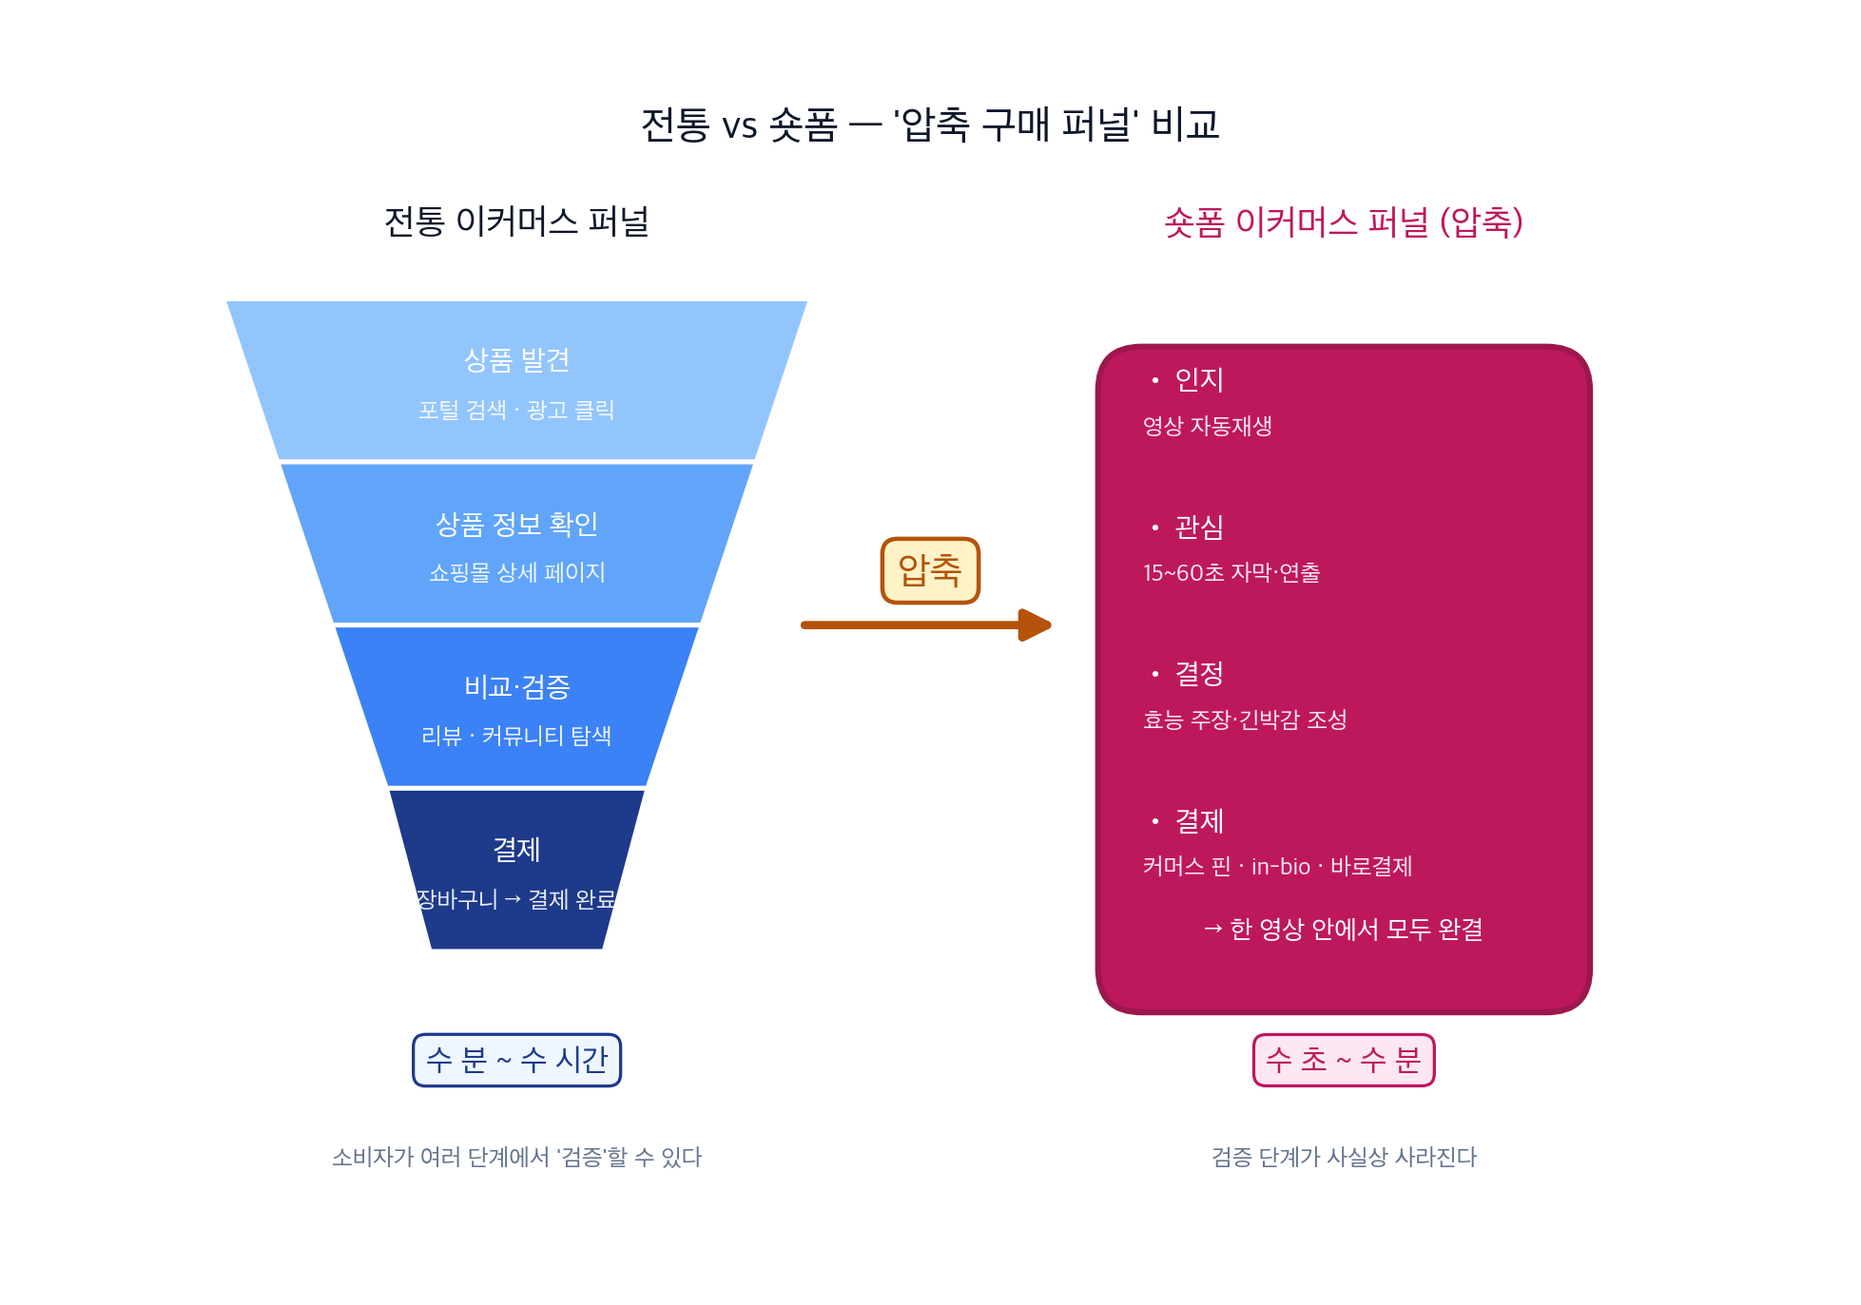
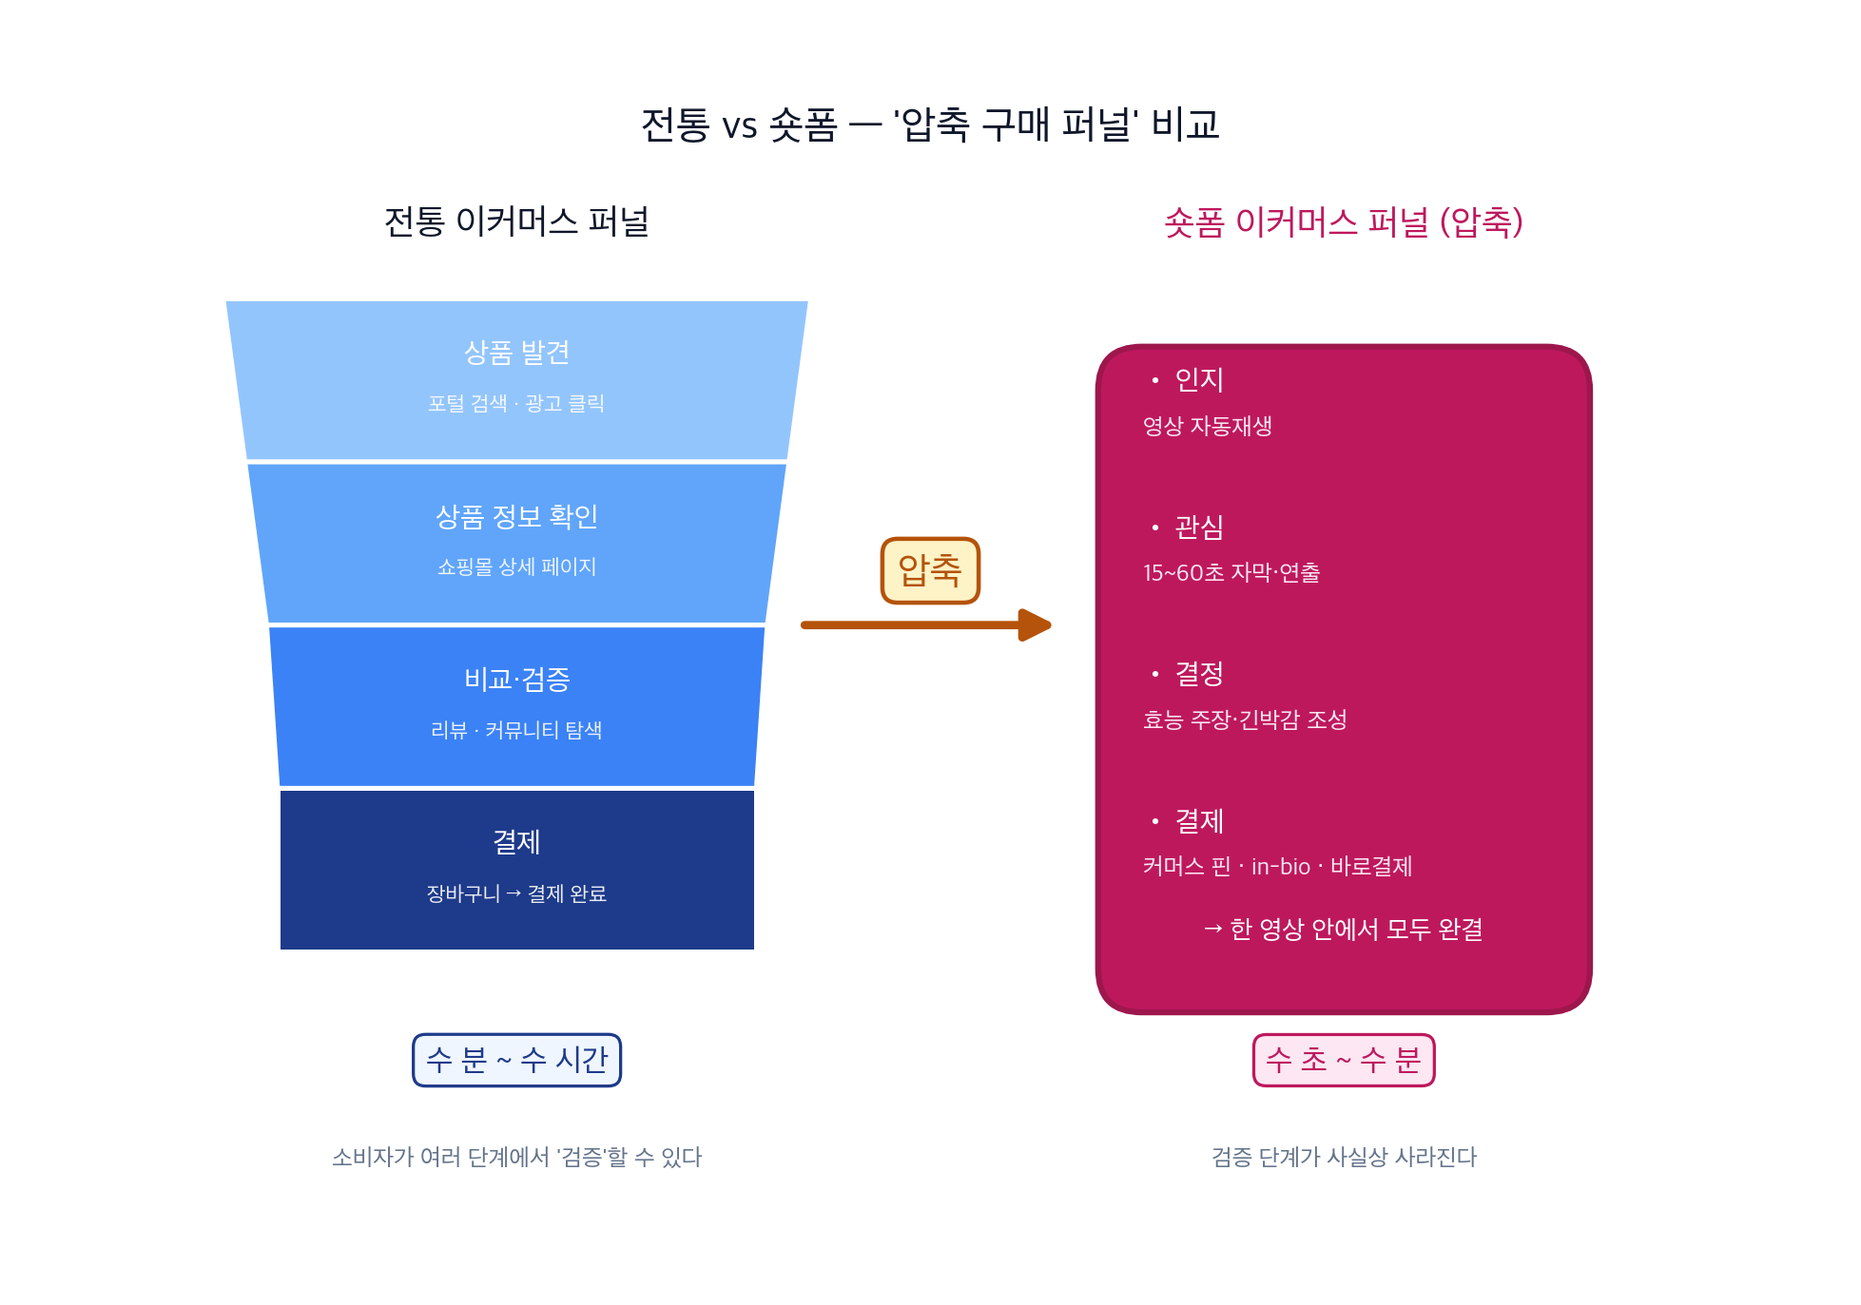
docs(proposal): bridge §1.3→§1.6 logic gap + visual polish + detail cleanup
- §1.3.1 "개입 방식의 선택" 추가 — 실시간 판별 요구 vs 공유 시트 능동
  호출 결정 사이의 논리 단절 해소 (TOS/OS API/비용 3대 제약, "실시간"
  재정의, 4대 정당화 근거, Phase 2 확장 여지)
- §1.6 개입 시점·폼팩터 행에 §1.3.1 크로스 레퍼런스 추가
- problem_convergence: 실루엣 제거 → 크로마키(Pillow) 커플 일러스트 삽입,
  41% 확대, 중앙 박스 파스텔 톤(크림 #FFF6E3 · 베이지 테두리 · 코랄 강조)
- compressed_funnel: 결제 섹션 텍스트 겹침 해소(하단 폭 4.4 원통형,
  값 9pt, 위치 재조정), "장바구니 → 결제 완료" 복원
- selection_reasons: 5번 카드 "발표 데모 임팩트 강" 불릿 제거
- §1.1.2 연도 라벨 단일화 (2001/2005/2014/2020~) — 범위 겹침 제거
- §1.4 정직한 셀러 가치 구체화 (전환율 회복·브랜드 신뢰도 재구축)
- §1.1.4 딥페이크 4건 이미지 캡션에 출처·수집일자 attribution
- 각주 중복 제거 ([^stat-shortform] L75 · [^stat-ai-deepfake] L106) +
  L106의 V- 문자 오입력 정리
- 이미지 원본 리포지토리 편입 (assets/images/confused_consumer.jpg)

Changed region(s): [[0.1247, 0.2447, 0.4364, 0.7342], [0.2182, 0.3671, 0.3429, 0.4588], [0.2182, 0.2447, 0.3429, 0.3365]]

diff --git a/scripts/make_problem_convergence.py b/scripts/make_problem_convergence.py
@@ -3,6 +3,7 @@
 # dependencies = [
 #   "matplotlib>=3.8",
 #   "numpy>=1.26",
+#   "Pillow>=10",
 # ]
 # ///
 """Render the convergence diagram — 4 flows meeting at the project's problem point.
@@ -25,7 +26,27 @@ import matplotlib
 matplotlib.use("Agg")
 import matplotlib.font_manager as fm
 import matplotlib.pyplot as plt
+import numpy as np
 from matplotlib.patches import FancyBboxPatch
+from PIL import Image
+
+
+def load_chromakey(path: Path, tol: int = 38) -> np.ndarray:
+    """Return RGBA array with the image's dominant background color keyed out."""
+    img = np.array(Image.open(path).convert("RGBA"))
+    h, w = img.shape[:2]
+    # Sample background from 4 corner patches (assumes bg is uniform at corners)
+    patch = 12
+    samples = np.concatenate([
+        img[:patch, :patch, :3].reshape(-1, 3),
+        img[:patch, -patch:, :3].reshape(-1, 3),
+        img[-patch:, :patch, :3].reshape(-1, 3),
+        img[-patch:, -patch:, :3].reshape(-1, 3),
+    ], axis=0)
+    key = np.median(samples, axis=0)
+    diff = np.abs(img[..., :3].astype(int) - key.astype(int)).max(axis=-1)
+    img[..., 3] = np.where(diff < tol, 0, 255).astype(np.uint8)
+    return img
 
 
 KOREAN_FONT_CANDIDATES = (
@@ -103,34 +124,68 @@ def main() -> None:
         (cx - cw / 2, cy - ch / 2),
         cw, ch,
         boxstyle="round,pad=0.05,rounding_size=0.3",
-        facecolor="#FEF3C7",
-        edgecolor="#B45309",
-        linewidth=3,
+        facecolor="#FFF6E3",
+        edgecolor="#E0B58A",
+        linewidth=2.5,
         zorder=5,
     )
     ax.add_patch(center_box)
+
+    # --- Confused-consumer illustration (chroma-keyed) ---
+    img_path = (
+        Path(__file__).resolve().parents[1]
+        / "assets" / "images" / "confused_consumer.jpg"
+    )
+    char_rgba = load_chromakey(img_path)
+    # Source aspect ratio preserved: 1200x800 ≈ 1.5:1
+    # Place inside left portion of center box (enlarged for emphasis)
+    img_w = 3.1
+    img_h = img_w / 1.5  # ≈ 2.07
+    img_left = cx - cw / 2 + 0.25
+    img_right = img_left + img_w
+    img_bottom = cy - img_h / 2
+    img_top = cy + img_h / 2
+    ax.imshow(
+        char_rgba,
+        extent=(img_left, img_right, img_bottom, img_top),
+        zorder=6,
+        aspect="auto",
+        interpolation="bilinear",
+    )
+    # Caption under illustration
     ax.text(
-        cx, cy + 0.95,
+        (img_left + img_right) / 2, img_bottom - 0.10,
+        "일반 소비자",
+        ha="center", va="top",
+        fontsize=10, fontweight="bold", color="#6B5844",
+        style="italic",
+        zorder=7,
+    )
+
+    # --- Problem text (shifted right to accommodate illustration) ---
+    text_cx = cx + 1.5
+    ax.text(
+        text_cx, cy + 0.95,
         "본 프로젝트 문제",
         ha="center", va="center",
-        fontsize=16, fontweight="bold",
-        color="#B45309",
+        fontsize=15, fontweight="bold",
+        color="#A8855C",
         zorder=6,
     )
     ax.text(
-        cx, cy - 0.05,
-        "일반 소비자는 숏폼 피드의",
+        text_cx, cy - 0.05,
+        "숏폼 광고가 진짜인지 가짜인지",
         ha="center", va="center",
-        fontsize=13,
-        color="#0F172A",
+        fontsize=12,
+        color="#3F3D3A",
         zorder=6,
     )
     ax.text(
-        cx, cy - 0.60,
-        "허위·과장 광고를 실시간 판별할 수단이 없다",
+        text_cx, cy - 0.55,
+        "판별할 수단이 없다",
         ha="center", va="center",
         fontsize=13, fontweight="bold",
-        color="#B91C1C",
+        color="#C46B5F",
         zorder=6,
     )
 

diff --git a/scripts/make_compressed_funnel.py b/scripts/make_compressed_funnel.py
@@ -61,13 +61,13 @@ def draw_funnel_stage(ax, cx, top_y, bottom_y, top_w, bottom_w, color,
                    edgecolor="white", linewidth=2, zorder=2)
     ax.add_patch(poly)
     mid_y = (top_y + bottom_y) / 2
-    ax.text(cx, mid_y + 0.18, stage_label,
+    ax.text(cx, mid_y + 0.25, stage_label,
             ha="center", va="center",
             fontsize=12, fontweight="bold",
             color=text_color, zorder=3)
-    ax.text(cx, mid_y - 0.28, stage_value,
+    ax.text(cx, mid_y - 0.22, stage_value,
             ha="center", va="center",
-            fontsize=10, color=text_color, alpha=0.9, zorder=3)
+            fontsize=9, color=text_color, alpha=0.9, zorder=3)
 
 
 def main() -> None:
@@ -89,7 +89,7 @@ def main() -> None:
     ]
 
     top_y = 6.0
-    widths = [5.4, 4.4, 3.4, 2.4, 1.6]
+    widths = [5.4, 5.0, 4.6, 4.4, 4.4]
     for i, (label, value, color, _) in enumerate(trad_stages):
         draw_funnel_stage(
             ax, left_cx,

diff --git a/scripts/make_selection_reasons.py b/scripts/make_selection_reasons.py
@@ -114,7 +114,6 @@ def main() -> None:
                 "• 공개 데이터 + 자체 수집",
                 "• 공정위·식약처 시정내역",
                 "• 앱·확장 프로토타입",
-                "• 발표 데모 임팩트 강",
             ],
             "ref": "§1.5 · §4",
             "color": "#059669",

diff --git a/docs/proposal/01_problem_definition.md b/docs/proposal/01_problem_definition.md
@@ -1,6 +1,6 @@
 # 1. 문제 정의
 
-본 섹션은 이커머스 시장의 팽창과 광고 채널의 진화를 추적하여, 그 끝에서 우리가 풀어야 할 **허위·과장 광고 문제**를 정의한다.
+본 섹션은 이커머스 시장의 팽창과 광고 채널의 진화를 추적하여, 그 끝에서 우리가 풀어야 할 **문제**를 정의한다.
 
 ---
 
@@ -39,9 +39,9 @@
 
 | 단계 | 주도 동인 | 대표 광고 형식 | 공급 측 변화 |
 |------|-----------|----------------|--------------|
-| **포털·검색광고** (1997~2000년대 중반) | 의도 검색 ("내가 찾는다") | 배너 · **CPC 검색광고 · SEO 상위 노출** | 오버추어 → 네이버 파워링크 경매(2001~) |
-| **소셜·UCC** (2001~2010) | 관계·바이럴 ("지인이 추천") | 블로그·카페 후기 · **파워블로거 바이럴** | 인플루언서 섭외 · 지식iN 답변 마케팅 |
-| **모바일 피드** (2010~2019) | 피드 소비 ("무한 스크롤") | 피드 네이티브 광고 · ASO | 타겟팅 정교화 · 앱 생태계 편입 |
+| **포털·검색광고** (2001) | 의도 검색 ("내가 찾는다") | 배너 · **CPC 검색광고 · SEO 상위 노출** | 오버추어 → 네이버 파워링크 경매 개시 |
+| **소셜·UCC** (2005) | 관계·바이럴 ("지인이 추천") | 블로그·카페 후기 · **파워블로거 바이럴** | 인플루언서 섭외 · 지식iN 답변 마케팅 |
+| **모바일 피드** (2014) | 피드 소비 ("무한 스크롤") | 피드 네이티브 광고 · ASO | 타겟팅 정교화 · 앱 생태계 편입 |
 | **숏폼·AI** (2020~) | **알고리즘 주도 ("광고가 덮친다")** | **15~60초 영상 · 네이티브 인스트림** | <mark>**AI 생성으로 극단적 비용 절감**</mark> |
 
 숏폼 단계에 와서는 사용자가 _광고를 찾는_ 것이 아니라 <mark>**_광고가 사용자를 덮치는_ 구조**</mark>가 되었다. 플랫폼은 알고리즘으로 광고–콘텐츠 경계를 흐리고, 광고주는 인플루언서·AI로 광고 제작 비용을 극단적으로 낮춘다. <mark>**이 변화가 본 프로젝트가 겨냥하는 허위·과장 광고 확산의 토양이다.**</mark>
@@ -72,7 +72,7 @@
 #### 소비 저변 — 10~30대를 넘어 전 연령대로 확장
 
 - **숏폼 세션** — 한 번 보기 시작하면 평균 <mark>21분 연속 시청</mark>, 하루 평균 <mark>97분</mark> 모바일 영상 소비[^stat-shortform].
-- **10~30대** — 숏폼은 이미 주력 콘텐츠 장르이자 **이커머스 진입점 자체**[^stat-shortform].
+- **10~30대** — 숏폼은 이미 주력 콘텐츠 장르이자 **이커머스 진입점 자체**다.
 - **유튜브는 전 연령대를 관통한다** — 방송통신위원회 2024 방송매체 이용행태조사 기준 **유튜브 연간 이용률이 10~50대에서 <mark>90%대 후반</mark>, 60대 이상도 <mark>86%</mark>** 로 집계되었다[^stat-kcc-media].
 - **뉴스·시사 정보를 유튜브로 얻는 비율은 연령이 올라갈수록 가파르게 상승**한다 — 한국언론진흥재단 2024 소셜미디어 이용자 조사 기준(아래 차트 참조).
 
@@ -103,7 +103,7 @@
 > **"<mark>'S대 치과 전문의'라는 송 모 씨가 등장해 '흔들리는 치아, 치과 오지 마세요. 이것만 해도 꽉 잡힙니다'고 홍보하며 구강 유산균을 추천</mark>했지만, 이들은 모두 실존 인물이 아닌 것으로 드러났다."**[^stat-ai-deepfake]
 
 - 유튜브·SNS에서 이런 **허구 권위자(AI 생성)** 가 영양제·다이어트 보조제·구강 유산균·의약품 등을 추천하는 숏폼 광고가 범람 중이다[^stat-ai-deepfake].
-- 흰 가운·전문 용어·의료기관 배경 등 **신뢰 프레임**을 AI로 손쉽게 재현해 과장된 효능 주장을 뒷받침한다[^stat-ai-deepfake].
+- 흰 가운·전문 용어·의료기관 배경 등 **신뢰 프레임**을 AI로 손쉽게 재현해 과장된 효능 주장을 뒷받침한다.
 
 **실제 사례 — 유튜브 숏폼에 유포된 AI 딥페이크 '의사 광고' 4건**
 
@@ -112,24 +112,24 @@
     <td width="50%" align="center" valign="top">
       <img src="../../assets/diagrams/deepfake_1_growth.png" alt="성장인자 AI 딥페이크 광고" />
       <br>
-      <sub><b>사례 ①</b> · <i>"S대 출신 소아과 교수"</i> 자칭<br/>"키 크는 체질로 바꾸는 먹는 성장인자" — 아동용 성장 보조제 추천</sub>
+      <sub><b>사례 ①</b> · <i>"S대 출신 소아과 교수"</i> 자칭<br/>"키 크는 체질로 바꾸는 먹는 성장인자" — 아동용 성장 보조제 추천<br/><i>출처: YouTube Shorts 캡처 (2025-12)</i></sub>
     </td>
     <td width="50%" align="center" valign="top">
       <img src="../../assets/diagrams/deepfake_2_immune.png" alt="이빈협회원장 AI 딥페이크 광고" />
       <br>
-      <sub><b>사례 ②</b> · <i>"이빈협회원장"</i> 자칭<br/>"평생 비염 걱정 없이 사는 방법" — 코면역 관련 제품 추천</sub>
+      <sub><b>사례 ②</b> · <i>"이빈협회원장"</i> 자칭<br/>"평생 비염 걱정 없이 사는 방법" — 코면역 관련 제품 추천<br/><i>출처: YouTube Shorts 캡처 (2025-12)</i></sub>
     </td>
   </tr>
   <tr>
     <td width="50%" align="center" valign="top">
       <img src="../../assets/diagrams/deepfake_3_obesity.png" alt="소아비만 치료 AI 딥페이크 광고" />
       <br>
-      <sub><b>사례 ③</b> · <i>"S대 출신 소아비만 치료 전문의 박OO 교수"</i> 자칭<br/>"의사가 바라본 최악의 소아비만 치료법"</sub>
+      <sub><b>사례 ③</b> · <i>"S대 출신 소아비만 치료 전문의 박OO 교수"</i> 자칭<br/>"의사가 바라본 최악의 소아비만 치료법"<br/><i>출처: YouTube Shorts 캡처 (2025-12)</i></sub>
     </td>
     <td width="50%" align="center" valign="top">
       <img src="../../assets/diagrams/deepfake_4_prostate.png" alt="전립선 비대증 AI 딥페이크 광고" />
       <br>
-      <sub><b>사례 ④</b> · <i>"이OO 비뇨기과 전문의 · S대 출신 교수"</i> 자칭<br/>"배뇨장애의 시작 전립선 비대증 — S대 출신 교수의 완치법"</sub>
+      <sub><b>사례 ④</b> · <i>"이OO 비뇨기과 전문의 · S대 출신 교수"</i> 자칭<br/>"배뇨장애의 시작 전립선 비대증 — S대 출신 교수의 완치법"<br/><i>출처: YouTube Shorts 캡처 (2025-12)</i></sub>
     </td>
   </tr>
 </table>
@@ -232,6 +232,32 @@
   - 플랫폼: 키워드·신고 기반 자동화, 광고주 자진 준수 가이드 → 커버리지 한계
   - 규제기관: 모니터링 요원·언론·민원 기반 단속 → 속도·범위 모두 부족
 
+### 1.3.1 개입 방식의 선택 — 왜 "사용자 능동 호출"인가
+
+§1.2~§1.3 에서 드러난 문제의 본질은 <mark>**영상이 스쳐 지나가는 그 순간의 판별 공백**</mark>이다. 가장 이상적 해법은 **피드 위 자동 오버레이** — 영상 재생과 동시에 AI가 판별해 경고를 덧씌우는 방식이다. 그러나 다음 세 제약이 _MVP 단계의 자동 개입_ 을 구조적으로 차단한다.
+
+| 제약 | 내용 | 근거 |
+|------|------|------|
+| **플랫폼 TOS·API 제약** | YouTube·Instagram·TikTok 모두 앱 내 영상 스트림을 제3자 앱이 가로채는 행위를 약관으로 금지. 공식 광고 콘텐츠 분석 API는 부재. | 각 플랫폼 개발자 정책 |
+| **OS 수준 API 제약** | iOS·Android는 타 앱 화면에 실시간 오버레이 허용 안 함 (접근성 API는 용도 제한, 심사 통과 난이). | iOS App Review Guideline · Android Accessibility Policy |
+| **비용·지연 (학습 프로젝트 범위)** | 전체 피드 영상을 스트리밍 분석하려면 다운로드·멀티모달 추론·결과 반환을 초 단위로 보장해야 함 — 학생 팀 리소스 밖. | §1.5 데이터·§4 기술 적용 계획 |
+
+따라서 <mark>**MVP에서의 "실시간"은 "자동 개입"이 아니라 "사용자가 의심한 순간 수 초 내 응답"으로 재정의**</mark>한다. 구체적으로는 다음과 같은 UX를 선택한다.
+
+- **공유 시트(Share Sheet) 기반 능동 호출** — 사용자가 숏폼 앱 내에서 영상을 보다 의심을 느끼는 순간, _이미 익숙한 동작_(공유 버튼 탭 → 본 앱 선택)으로 분석을 트리거한다. 별도 앱 전환·URL 복사·스크린샷 전송 없이 **한 번의 시스템 제스처**로 요청이 완결된다.
+- **수 초 내 리포트 반환** — 공유 직후 분석 결과(위반 유형·근거·관련 규정)가 리포트 형태로 즉시 제시된다. _사용자 체감_ 상 "영상을 본 그 순간" 판별이 성립한다.
+
+이 선택은 다음 네 근거로 정당화된다.
+
+1. **사용자 친숙한 패턴** — 뉴스 팩트체크·악성 URL 검사·번역 도구 등 대부분의 보조 서비스가 이미 공유 시트로 작동 중이며, 모바일 사용자는 "의심되면 공유"라는 멘탈 모델을 이미 보유한다.
+2. **플랫폼 TOS 준수** — 공유는 플랫폼이 공식 제공하는 인터페이스이므로 스트림 가로채기와 달리 약관 위반 소지가 없다.
+3. **오탐 부담 감소** — 모든 영상이 아닌 **사용자가 실제 의심한 영상만** 분석 대상이 되므로, 분석 품질과 사용자 신뢰를 동시에 확보한다.
+4. **취약층 보호와 양립** — 고령층(§1.1.3)의 공유 버튼 숙련도는 상대적으로 낮을 수 있다. 이에 대한 보완은 §2 페르소나·§3 서비스 개요에서 **원클릭 플로우·큰 버튼·음성 안내** 등 UX 설계 단위로 처리한다.
+
+**향후 확장 여지** — 브라우저 확장 프로그램(데스크톱 YouTube 환경 자동 검사), 플랫폼 공식 파트너십, 규제기관 API 연동을 통한 사전 모니터링은 본 기획 범위 밖 **Phase 2** 후보로 남겨둔다.
+
+→ 이 결정을 근거로 §1.6에서 "서비스 폼팩터 = 모바일 앱 + OS 공유 시트 연동"이 확정된다.
+
 ## 1.4 주제 선택 이유
 
 본 프로젝트를 _지금 · 여기서_ 수행해야 하는 이유를 5가지 축으로 정리한다. 각 축은 §1.1~§1.3 에서 논의된 근거와 직접 연결된다.
@@ -251,7 +277,7 @@
 | **소비자** (1차 타겟) | 영상 노출 순간의 **허위·과장 판별 근거** 제공 → 구매 전 보호 |
 | **플랫폼** (YouTube·Meta·TikTok) | 운영·규제 리스크 저감 · 자율 모니터링 고도화 보조 |
 | **규제기관** (공정위·식약처·방미통위) | **광고 모니터링 자동화** — 서면심의 24시간 체계 보완 |
-| **정직한 셀러** | 공정경쟁 회복 — 거짓 광고로 비교우위 잃는 피해 완화 |
+| **정직한 셀러** | 허위 광고 경쟁자 대비 **전환율 회복** · **브랜드 신뢰도 재구축** — 규제 리스크 회피 |
 
 ### 3⃣ AI 기술 정당성 — <mark>본질적으로 멀티모달 AI 문제</mark>
 
@@ -356,7 +382,7 @@
 | 플랫폼 | YouTube Shorts · Instagram Reels · TikTok |
 | 상품 카테고리 | 건강기능식품 · 화장품 · 다이어트 제품 등 표시광고법·식약처 규제 민감 영역 |
 | AI 기술 축 | 영상·이미지 Vision + 자막·카피 NLP/LLM + 멀티모달 교차검증 (음성 ASR은 1차 범위 제외) |
-| 개입 시점 | 사용자 능동 호출 — 의심 영상을 _공유 시트(Share Sheet)_ 로 앱에 보냈을 때 분석·리포트 |
-| 서비스 폼팩터 | iOS · Android 모바일 앱 + OS 공유 시트 연동 |
+| 개입 시점 | 사용자 능동 호출 — 의심 영상을 _공유 시트(Share Sheet)_ 로 앱에 보냈을 때 분석·리포트 (선택 근거 §1.3.1) |
+| 서비스 폼팩터 | iOS · Android 모바일 앱 + OS 공유 시트 연동 (선택 근거 §1.3.1) |
 
 → 본 섹션의 범위 기반으로 `02_target_users.md` (페르소나)와 `03_service_overview.md` (서비스 개요·차별점) 작성으로 이어진다.
